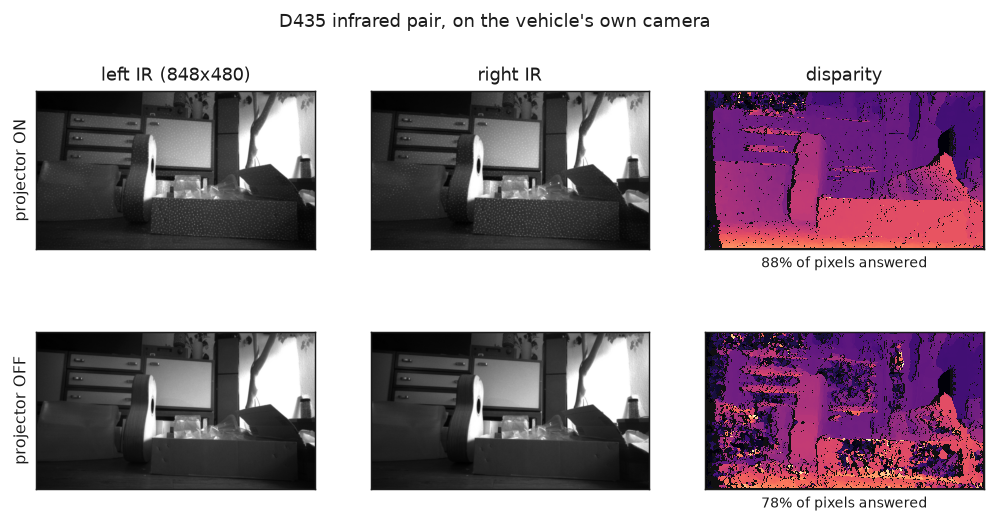
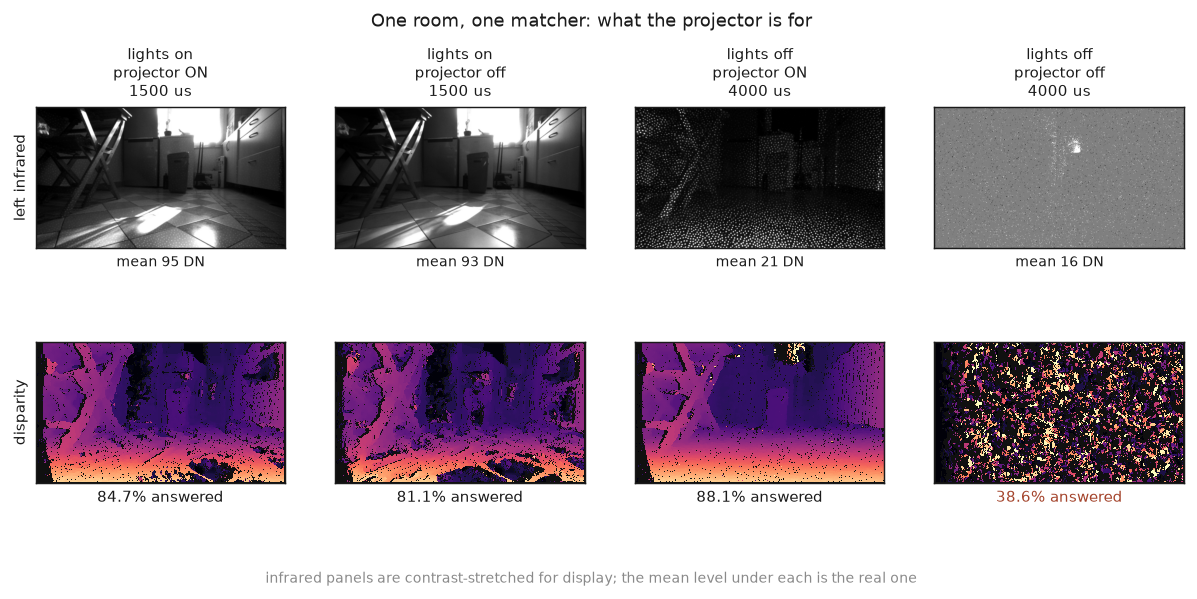
Part 3 opens on the kitchen, under the four conditions that decide the matcher
The infrared figure was two panels of a box-covered desk, projector on against
projector off, quoting 88% and 78% coverage. It is now the vehicle's own room, in a
2x4 grid: lights on and off, projector on and off, with the left infrared above and
the disparity map below each.

Measured on the pairs behind it, dmax 64:

  lights on,  projector on    1500 us   contrast 3.73 DN   84.7% answered
  lights on,  projector off   1500 us   contrast 2.73 DN   81.1%
  lights off, projector on    4000 us   contrast 2.89 DN   88.1%
  lights off, projector off   4000 us   contrast 0.12 DN   38.6%

The two-panel version could not show the thing that matters. With the room lit the
projector is worth 3.6 points and looks close to unnecessary, because the room's own
light already puts texture on a tiled floor. Take the light away and it is the
difference between 88.1% and speckle. Room light is a flood illuminator; the projector
is a texture source; the matcher needs the second and only says so when the first is
gone.

The best of the four is the dark room with the projector on, which is not the expected
answer: a lit room forces a shorter exposure and still clips 8.6% of the frame, and a
saturated pixel carries no texture.

Exposure is per condition rather than fixed -- 1500 us lit, 4000 us dark, each the
value holding 3-5 DN of local contrast there. One exposure across both would have
measured the exposure instead of the projector. Finding it needed a sweep: the room is
[…]

diff --git a/_posts/2026-08-09-Realtime-Dense-MASDA-on-the-Jetson-GPU.md b/_posts/2026-08-09-Realtime-Dense-MASDA-on-the-Jetson-GPU.md
@@ -24,18 +24,35 @@ layout, and the memory layout is where the surprise is.
 *Every term is defined in the [series glossary][gl-appendix]. [Part 1][p1] derives the
 message equations; [Part 2][p2] is the matcher this post makes real-time.*
 
-Here is what it produces on the camera it is built for — the [D435 IR pair][gl-d435],
-with the structured-light projector on and off:
+Here is what it produces on the camera it is built for — the [D435 IR pair][gl-d435] —
+in one kitchen, under the four conditions that matter:
 
 ![real pair](/assets/img/2026-08-09-Realtime-Dense-MASDA_files/real_pair.png)
 
-The projector is the reason this project uses MASDA at all. With it on, the scene is
-covered in dots that make texture where there was none, and the matcher answers 88% of
-the image. With it off, the same scene, the same code: 78%, and the surfaces break up
-into speckle wherever the room is flat and grey. Those dots also make the descriptors
-**3.3× degenerate** — many pixels have identical Census codes — which is exactly the
-ambiguity a [one-to-one constraint][gl-one2one] is for, and exactly where a
-winner-take-all matcher assigns the same right pixel to several left ones.
+Read the last column first. With the room dark and the projector off, the image is
+sensor noise and nothing else: 0.12 DN of median local contrast, and a disparity map
+that is speckle at 38.6% coverage. Switch the projector on in the same darkness and
+the same code answers **88.1%**.
+
+With the lights on, the projector looks nearly unnecessary — 84.7% against 81.1%, a
+difference of 3.6 points — because the room's own light already puts texture on a
+tiled floor and a run of cabinet fronts. That is the shape of it: **room light is a
+flood illuminator and the projector is a texture source.** The matcher needs the
+second one, and only shows you that when the first is taken away.
+
+The best of the four is the dark room with the projector on, which is not the
+expected answer. A lit room forces a shorter exposure and still clips 8.6% of the
+frame, and a saturated pixel carries no texture at all.
+
+Exposure is set per condition — 1500 µs lit, 4000 µs dark — each being the value that
+holds 3–5 DN of local contrast in that room. One fixed exposure across both would
+measure the exposure rather than the projector.
+
+Those dots also make the Census descriptors **3.3× degenerate** on this camera: 338
+distinct codes for 1115 keypoints, so many pixels are indistinguishable from one
+another. That is exactly the ambiguity a [one-to-one constraint][gl-one2one] is for,
+and exactly where a winner-take-all matcher assigns the same right pixel to several
+left ones.
 
 ---
 
